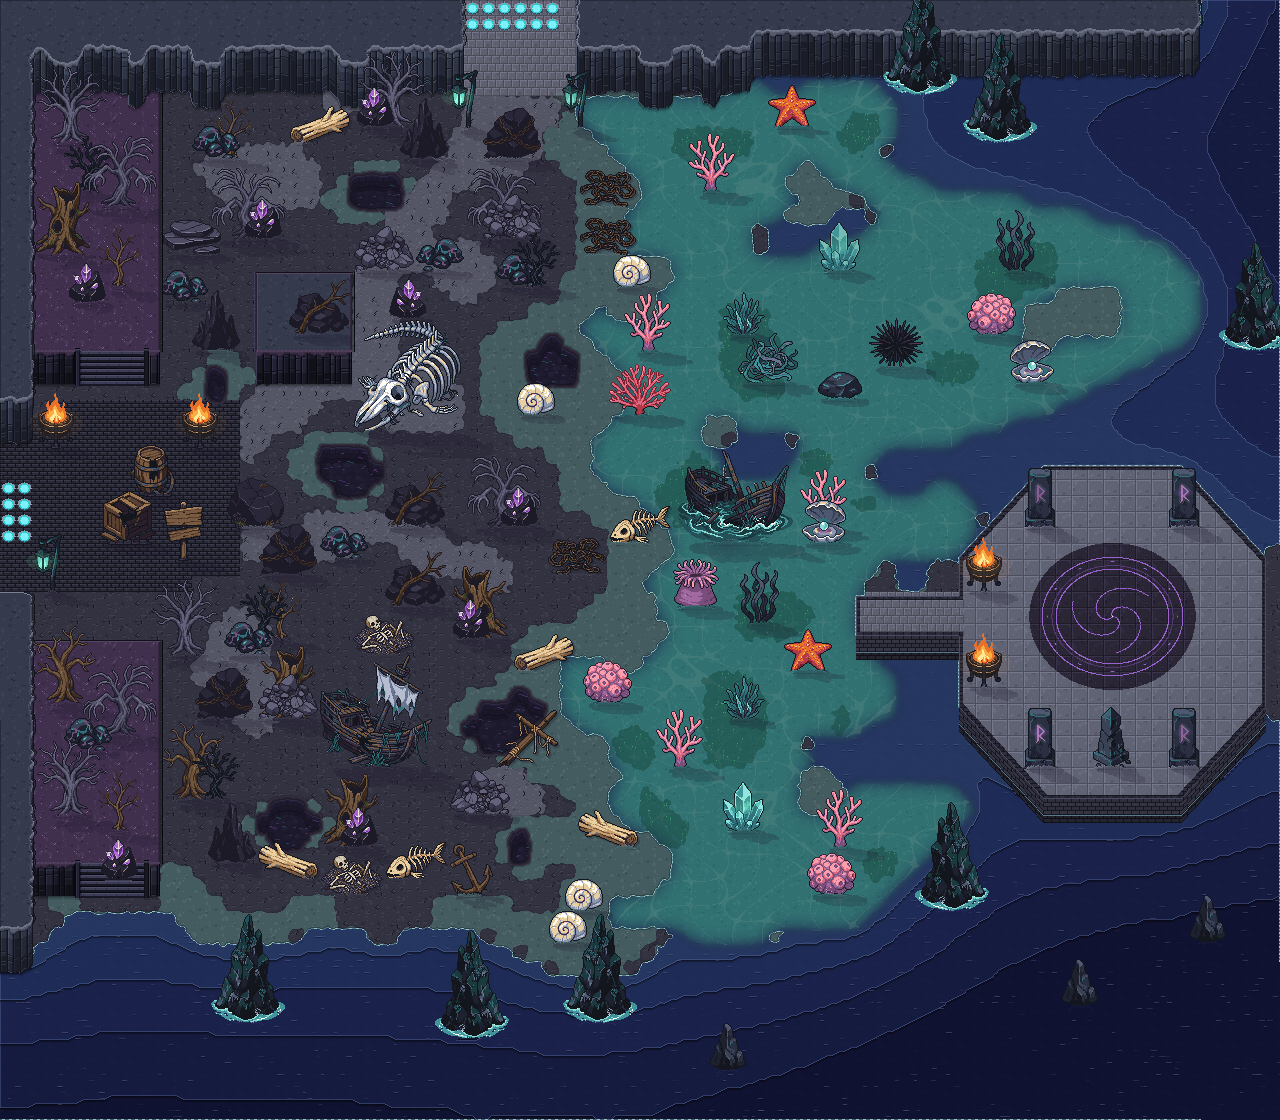
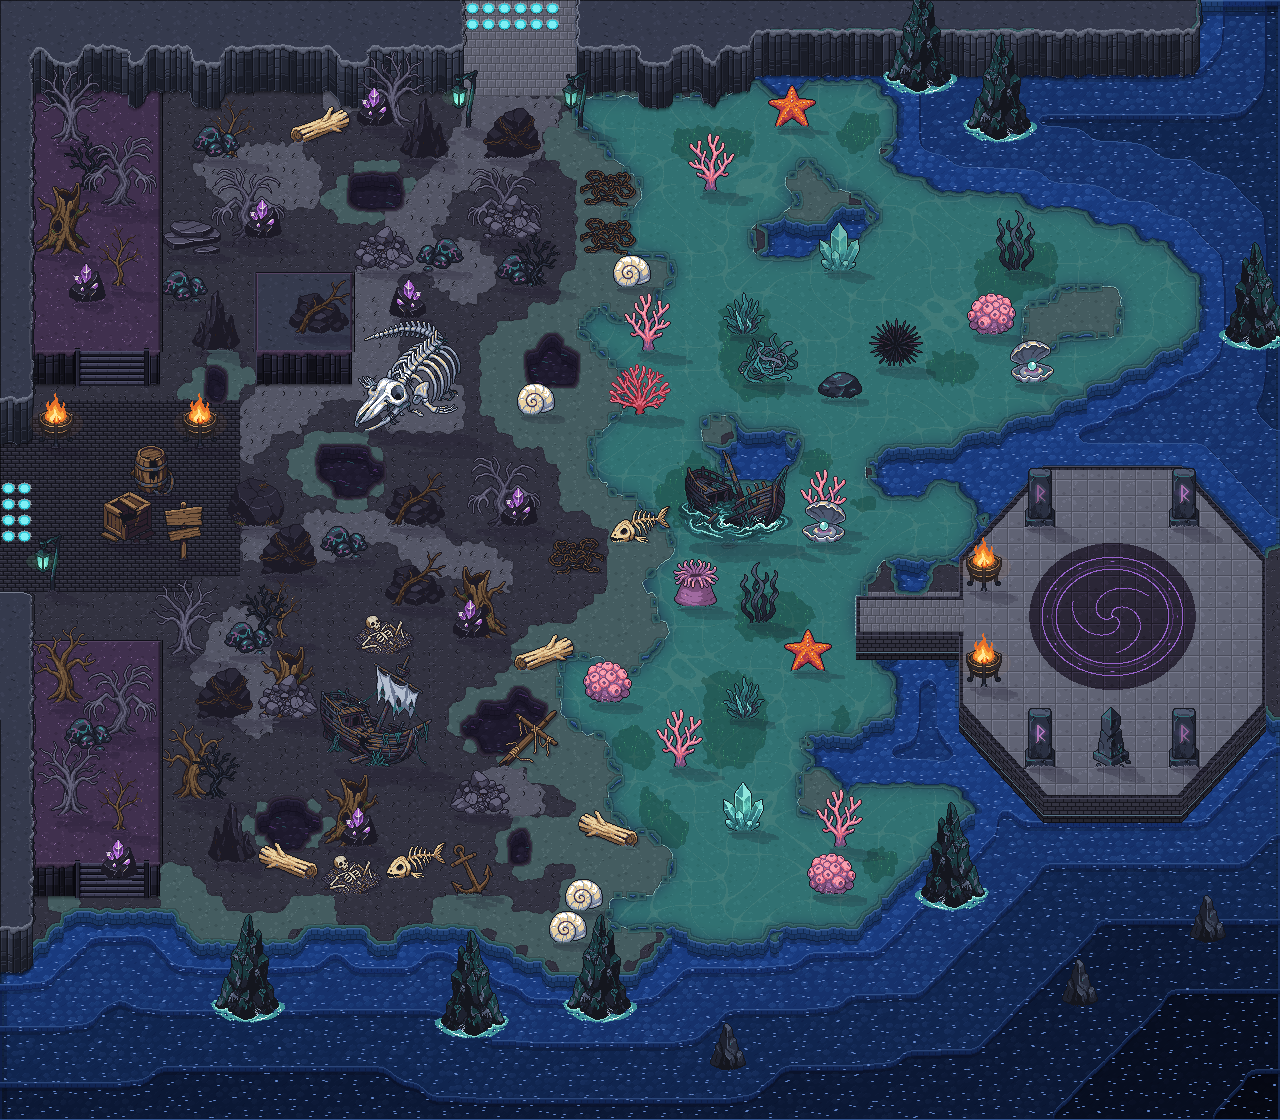
Karte 11: Tiefsee im Stil des Flusses von Karte 01 (Wassertextur, 5 vertiefte Stufen bis zum Rand), abgedunkelt
Claude-Session: https://claude.ai/code/session_01SaoYHKhnro4LFcPJqjaPsq

diff --git a/tools/karte11_bauen.py b/tools/karte11_bauen.py
@@ -105,12 +105,13 @@ def meer_zeichnen(a, wasser, flach, seetang, frame):
     tex = (lum - lum[tief_m].mean()) * 0.18
     st_f = farben[stufe] + tex[..., None]
     rand_f = np.clip(blur(flach, 6) * 1.6, 0, 1)[..., None]          # weicher Uebergang zum Flachwasser
-    neu[tief_m] = (neu * rand_f + st_f * (1 - rand_f))[tief_m]
-    for dy, dx in ((1, 0), (-1, 0), (0, 1), (0, -1)):
+    if False:
+        neu[tief_m] = (neu * rand_f + st_f * (1 - rand_f))[tief_m]
+    for dy, dx in (() if True else ((1, 0), (-1, 0), (0, 1), (0, -1))):
         nb = np.roll(np.roll(stufe, dy, 0), dx, 1)
         kante = tief_m & (nb > stufe)                                   # hoehere Stufe neben tieferer: Grat
         neu[kante] = neu[kante] * 0.6 + np.array([92, 110, 160]) * 0.4
-    for k_, fa in ((1, 0.7), (2, 0.8), (3, 0.9)):                       # Schatten unter dem Grat (Licht oben links)
+    for k_, fa in (() if True else ((1, 0.7), (2, 0.8), (3, 0.9))):
         oben = np.roll(stufe, k_, 0)
         sch = tief_m & (oben < stufe)
         neu[sch] *= fa
@@ -293,6 +294,15 @@ def bauen(frame=None, speichern=True):
     wasser &= ~plattform & ~bruecke_m & ~em[2]
     flach &= wasser
     meer_zeichnen(a, wasser, flach, seetang, frame)
+    # Tiefsee im Stil des Flusses von Karte 01: Wassertextur, vertiefte Stufen mit Kanten (5 Stufen ueber die ganze
+    # Meeresbreite bis zum Kartenrand), danach fuer das Meer der Finsternis abgedunkelt (Struktur bleibt erhalten)
+    tief = wasser & ~flach
+    k4.wasser_zeichnen(a, tief, frame, np.zeros_like(tief))
+    import wasser_vertieft as _wv
+    a = np.array(_wv.vertiefen(Image.fromarray(a), np.ones_like(tief), frame, maske=tief,
+                               rand=('#1c3a40', '#24484e', '#2e565c', '#386468'),
+                               stufen=[(22, 0.84, 7), (64, 0.72, 6), (120, 0.62, 6), (190, 0.53, 5), (270, 0.45, 5)]).convert('RGB'))
+    a[tief] = np.clip(a[tief].astype(np.float32) * np.array([0.5, 0.56, 0.72]) + np.array([4, 4, 10]), 0, 255).astype(np.uint8)
     tm = weich(zell_maske(cls, 'x', cols, rows), 5, 0.2, 47, 0.45) & ~em[2]
     tm = k4.splitter_weg(tm, 60)
     k4.wasser_zeichnen(a, tm, frame, np.zeros_like(tm))
